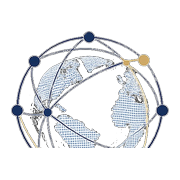
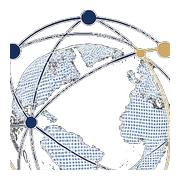
Fit the product mark in collapsed and mobile chrome.
Use square logo crops in fixed rail slots so the globe is no longer clipped when the sidebar collapses or on small screens.

diff --git a/src/components/brand/logo.tsx b/src/components/brand/logo.tsx
@@ -8,8 +8,6 @@ import { cn } from "@/lib/utils";
 
 /** Full wordmark aspect (globe + AARVANTA + BUSINESS OS). */
 const FULL_LOGO_ASPECT = 1;
-/** Icon mark aspect from aarvanta-logo-icon-*-clear.png */
-const ICON_LOGO_ASPECT = 412 / 311;
 
 const DISPLAY_HEIGHT = {
   header: 56,
@@ -19,6 +17,8 @@ const DISPLAY_HEIGHT = {
   xl: 140,
   /** Sidebar brand mark — fills most of the rail header */
   sidebar: 112,
+  /** Collapsed rail / mobile header — must fit inside ~40–48px */
+  rail: 36,
 } as const;
 
 export type BrandLogoSize = keyof typeof DISPLAY_HEIGHT;
@@ -28,15 +28,16 @@ export type BrandLogoVariant = "full" | "icon";
  * Canonical product logos (true alpha).
  * - light* → for light UI surfaces
  * - dark* → for dark UI surfaces
+ * Icon uses square mark crops so collapsed/mobile slots never clip the globe.
  */
 const LOGO_PATHS = {
   dark: {
     full: "/aarvanta-logo-dark-clear.png",
-    icon: "/aarvanta-logo-icon-dark-clear.png",
+    icon: "/aarvanta-logo-mark-dark-clear.png",
   },
   light: {
     full: "/aarvanta-logo-light-clear.png",
-    icon: "/aarvanta-logo-icon-light-clear.png",
+    icon: "/aarvanta-logo-mark-light-clear.png",
   },
 } as const;
 
@@ -60,25 +61,29 @@ export function BrandLogo({
   const themeMode = mode ?? contextResolved;
   const displayHeight = DISPLAY_HEIGHT[size];
   const src = LOGO_PATHS[themeMode][variant];
-  const iconBox = displayHeight;
-  const intrinsicHeight = displayHeight * 2;
-  const intrinsicWidth =
-    variant === "icon"
-      ? Math.round(intrinsicHeight * ICON_LOGO_ASPECT)
-      : Math.round(intrinsicHeight * FULL_LOGO_ASPECT);
+  const isIcon = variant === "icon";
+  const box = displayHeight;
+  const intrinsic = isIcon
+    ? { width: box * 2, height: box * 2 }
+    : {
+        width: Math.round(displayHeight * 2 * FULL_LOGO_ASPECT),
+        height: displayHeight * 2,
+      };
 
   const image = (
     <Image
       src={src}
       alt={brand.fullName}
-      width={intrinsicWidth}
-      height={intrinsicHeight}
+      width={intrinsic.width}
+      height={intrinsic.height}
       quality={100}
       unoptimized
       priority
       className={cn(
         "!bg-transparent object-contain",
-        fullWidth ? "mx-auto h-auto w-full max-w-[280px]" : "h-auto w-auto",
+        fullWidth ? "mx-auto h-auto w-full max-w-[280px]" : null,
+        !fullWidth && isIcon && "h-full w-full",
+        !fullWidth && !isIcon && "h-auto w-auto",
         className
       )}
       style={
@@ -91,12 +96,10 @@ export function BrandLogo({
                 maxWidth: 236,
                 backgroundColor: "transparent",
               }
-            : variant === "icon"
+            : isIcon
               ? {
-                  height: iconBox,
-                  width: "auto",
-                  maxHeight: iconBox,
-                  maxWidth: Math.round(iconBox * ICON_LOGO_ASPECT),
+                  width: "100%",
+                  height: "100%",
                   objectFit: "contain",
                   backgroundColor: "transparent",
                 }
@@ -116,6 +119,17 @@ export function BrandLogo({
         "inline-flex shrink-0 items-center justify-center bg-transparent",
         fullWidth && "block w-full"
       )}
+      style={
+        !fullWidth && isIcon
+          ? {
+              width: box,
+              height: box,
+              padding: Math.max(2, Math.round(box * 0.08)),
+              boxSizing: "border-box",
+              backgroundColor: "transparent",
+            }
+          : { backgroundColor: "transparent" }
+      }
     >
       {image}
     </span>

diff --git a/src/components/layout/app-sidebar.tsx b/src/components/layout/app-sidebar.tsx
@@ -67,7 +67,7 @@ export function AppSidebar({
           className={cn(
             "flex shrink-0 items-center border-b border-border-subtle",
             collapsed
-              ? "flex-col justify-center gap-1.5 px-1.5 py-2.5"
+              ? "flex-col justify-center gap-2 px-3 py-3"
               : "h-[120px] justify-center px-2 py-2"
           )}
         >
@@ -75,20 +75,14 @@ export function AppSidebar({
             href={SIDEBAR_BRAND.href}
             className={cn(
               "flex items-center justify-center rounded-lg transition-colors hover:bg-surface-muted",
-              collapsed
-                ? "h-11 w-full max-w-[56px] shrink-0 px-0.5"
-                : "max-w-full"
+              collapsed ? "h-10 w-10 shrink-0" : "max-w-full"
             )}
             aria-label={SIDEBAR_BRAND.title}
           >
             <BrandLogo
-              size={collapsed ? "sm" : "sidebar"}
+              size={collapsed ? "rail" : "sidebar"}
               variant={collapsed ? "icon" : "full"}
-              className={
-                collapsed
-                  ? "!h-9 !w-auto max-h-9 max-w-full"
-                  : "max-h-[112px] max-w-full"
-              }
+              className={collapsed ? undefined : "max-h-[112px] max-w-full"}
             />
           </Link>
           <button

diff --git a/src/components/layout/app-header.tsx b/src/components/layout/app-header.tsx
@@ -78,14 +78,10 @@ export function AppHeader() {
     <header className="relative z-10 flex h-14 shrink-0 items-center gap-2 border-b border-border bg-surface px-3 sm:h-16 sm:gap-3 sm:px-6">
       <Link
         href="/dashboard"
-        className="flex h-10 max-w-[52px] shrink-0 items-center justify-center md:hidden"
+        className="flex h-10 w-10 shrink-0 items-center justify-center md:hidden"
         aria-label="Aarvanta Business OS"
       >
-        <BrandLogo
-          variant="icon"
-          size="sm"
-          className="!h-9 !w-auto max-h-9 max-w-full"
-        />
+        <BrandLogo variant="icon" size="rail" />
       </Link>
 
       <div className="min-w-0 flex-1">
